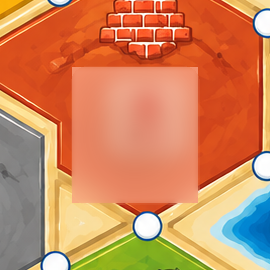
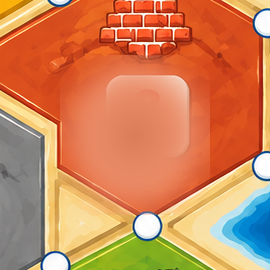
Estilo C: claro elíptico difuso en tiles (sin rectángulo) + cache-busting + disenos.html

Changed region(s): [[0.2074, 0.1778, 0.8, 0.8], [0.4148, 0.3259, 0.5926, 0.563], [0.563, 0.3852, 0.6519, 0.5333]]

diff --git a/disenos.html b/disenos.html
@@ -162,7 +162,7 @@ function drawBoard(containerId, style) {
       el('polygon', { points: hexPoints(h) }, cp);
       const g = el('g', { 'clip-path': `url(#${clipId})` }, gHex);
       el('image', {
-        href: `tiles/${h.terrain}.png`,
+        href: `tiles/${h.terrain}.png?v=2`,
         x: (h.x - W / 2).toFixed(1), y: (h.y - Hh / 2).toFixed(1),
         width: W, height: Hh, preserveAspectRatio: 'xMidYMid slice',
       }, g);
